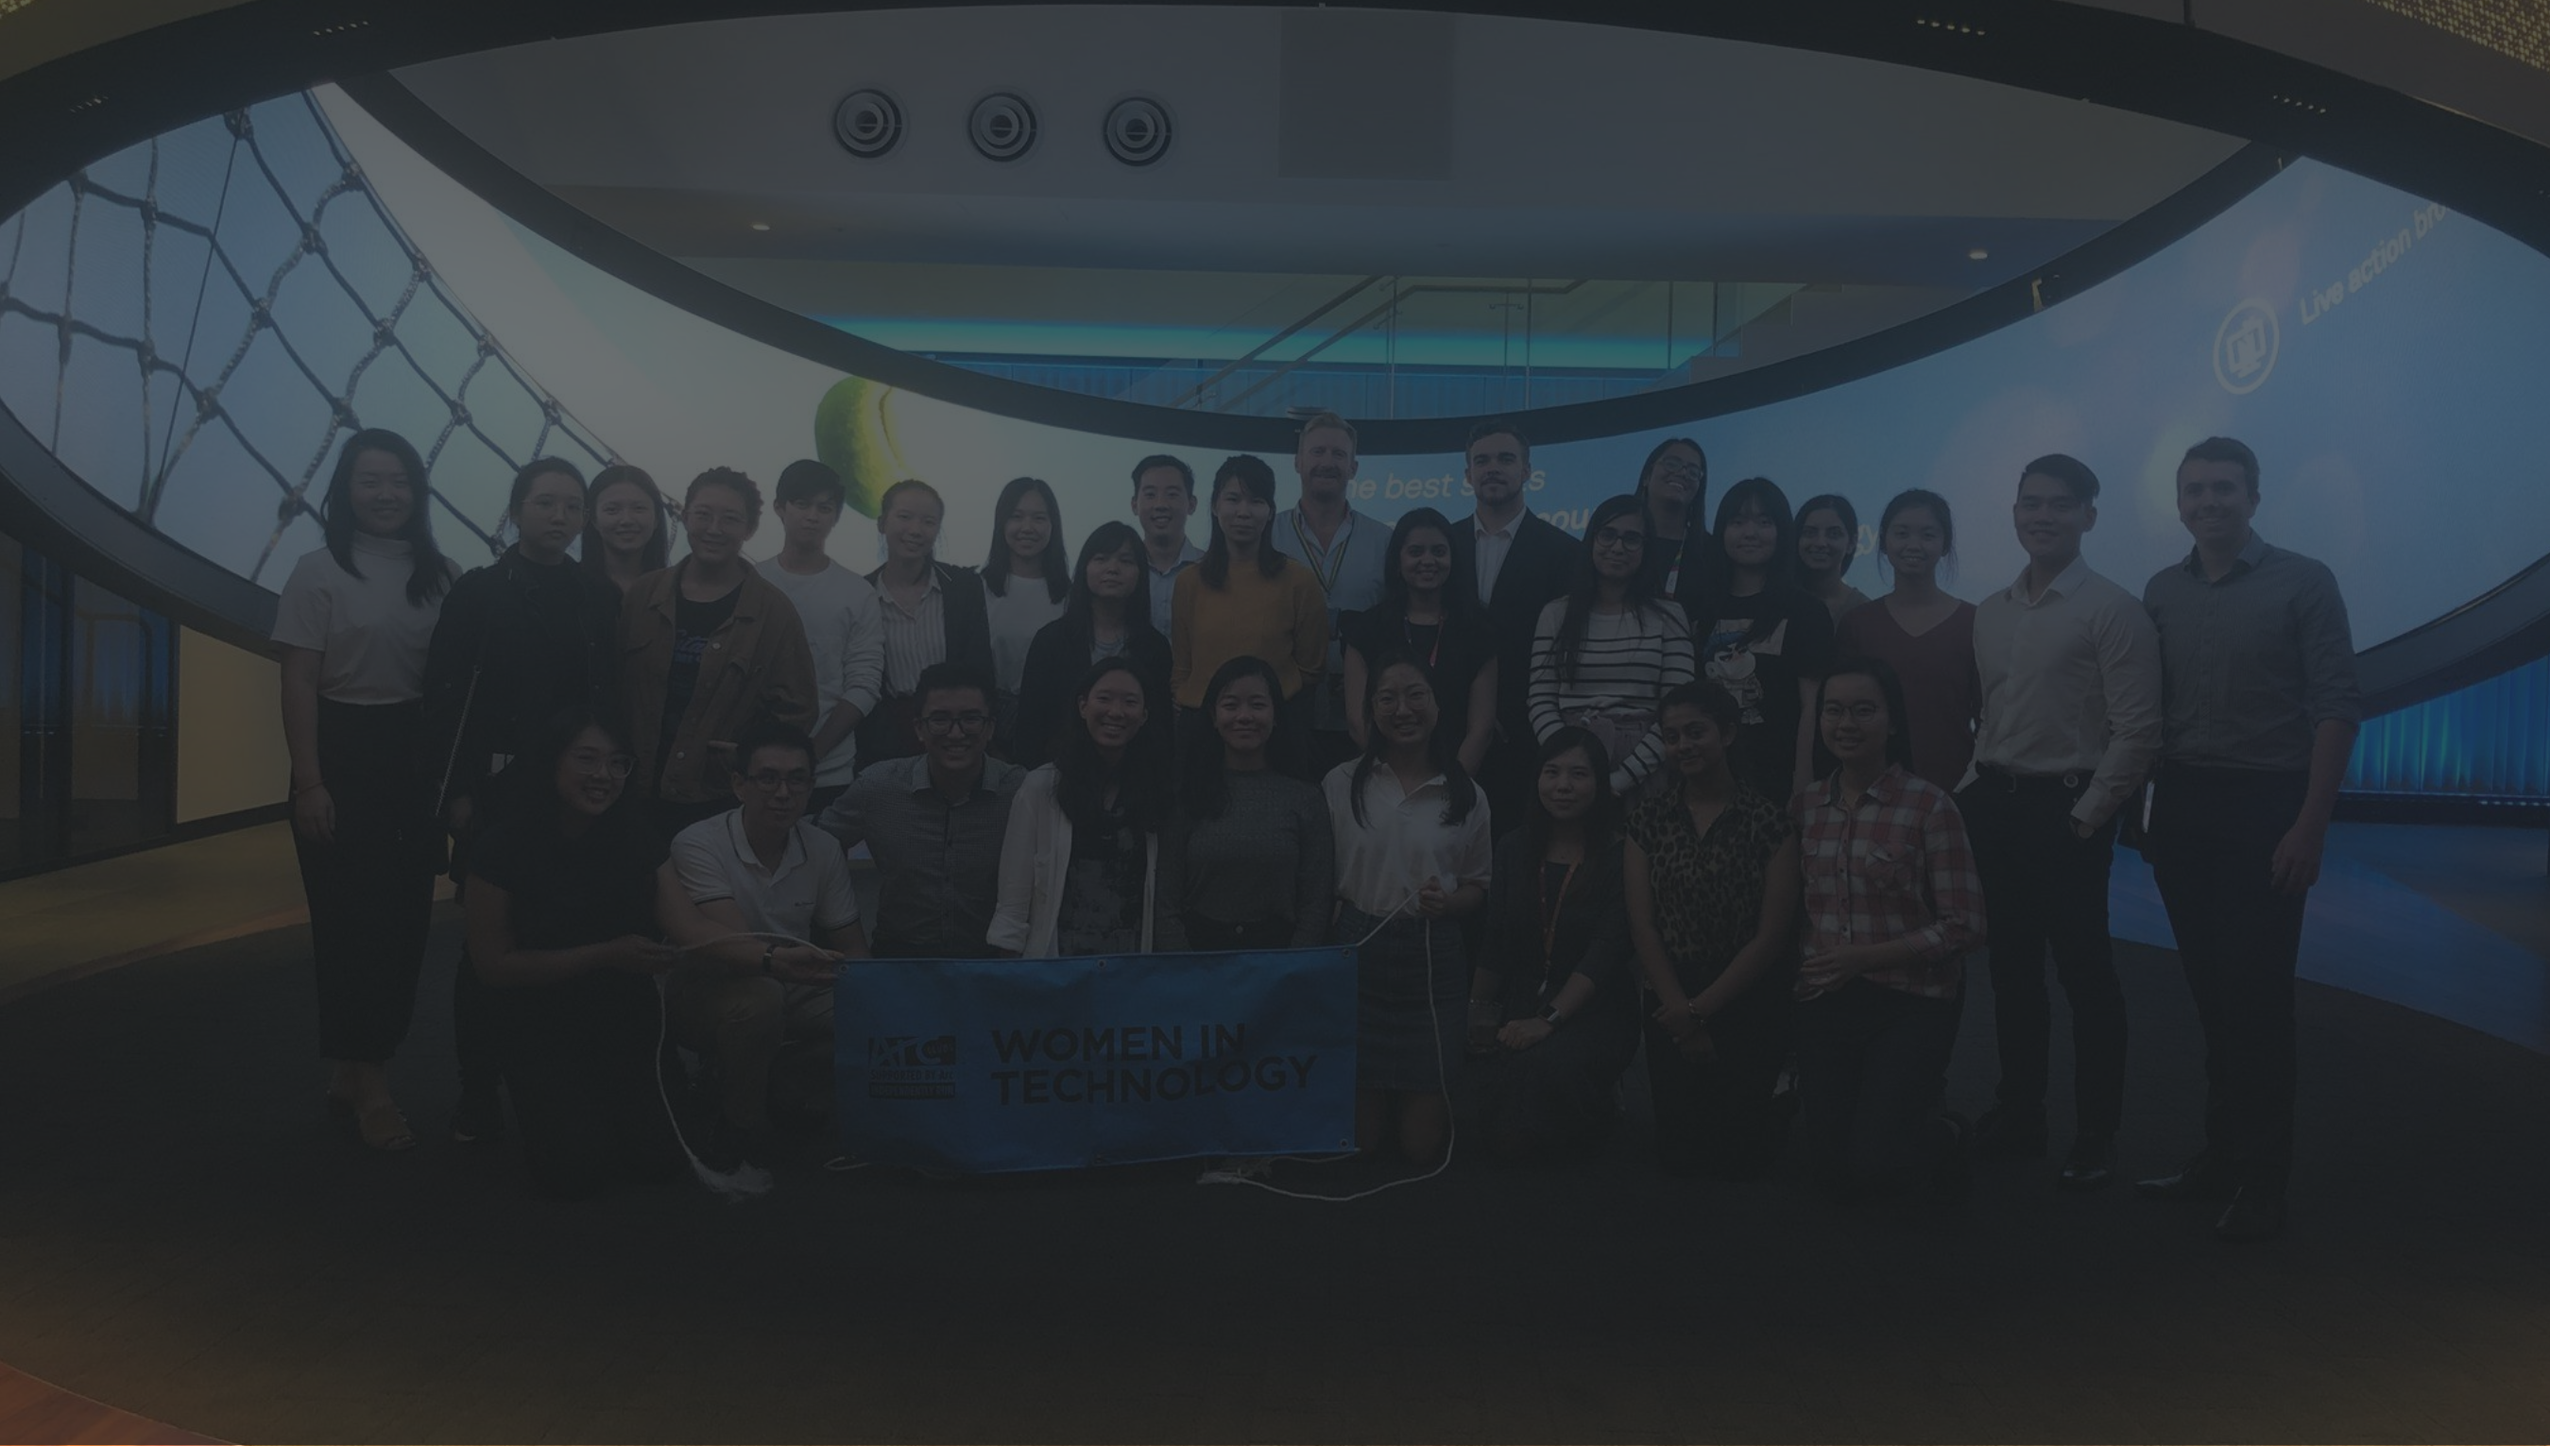
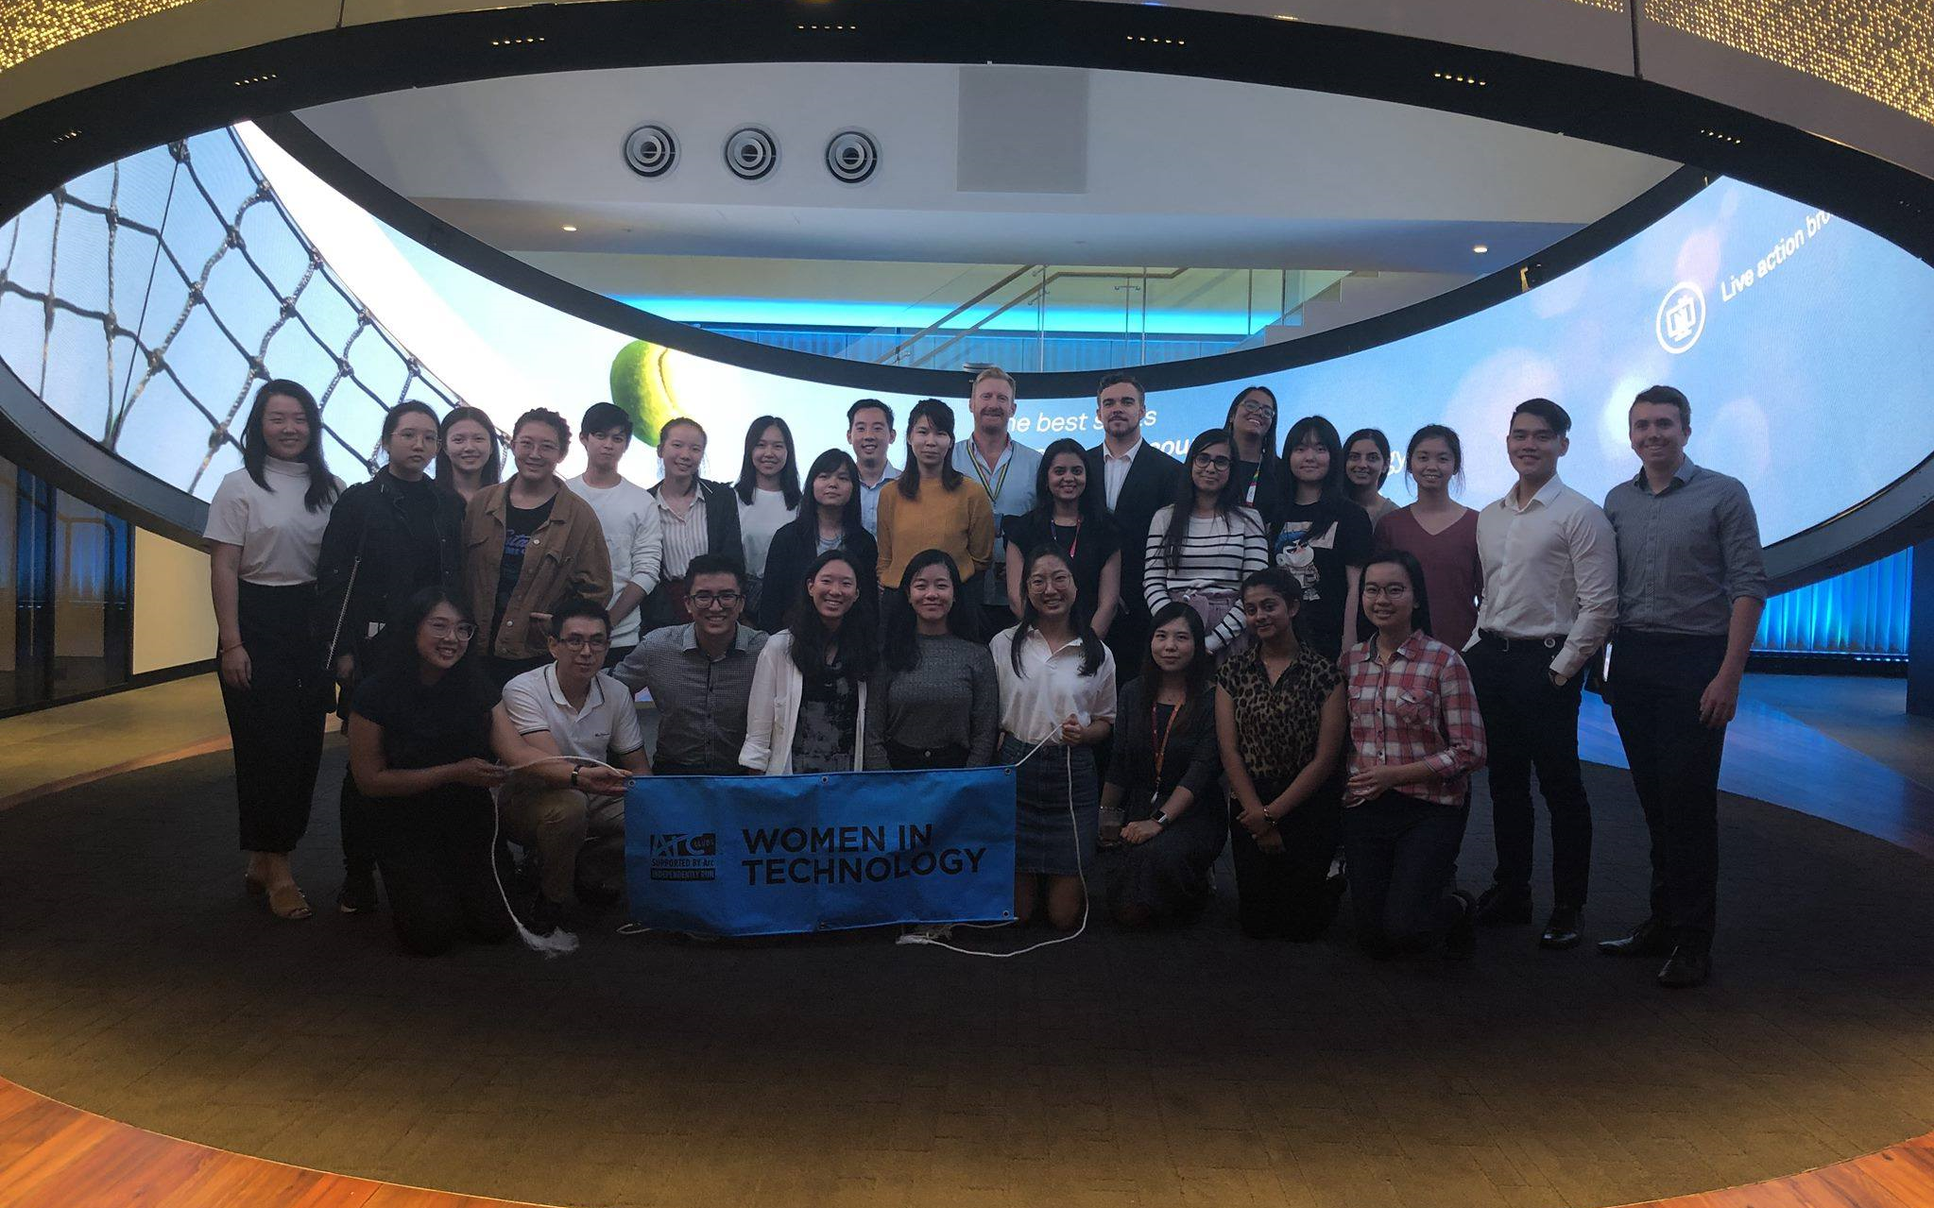
changed resource images for header

diff --git a/src/team/team.js b/src/team/team.js
@@ -13,7 +13,7 @@ class OurTeam extends Component {
 
         {/* Cover Photo */}
         <PageHeader
-          imgUrl="/team-header-1.png"
+          imgUrl="/team-header-1.jpg"
           title="Meet Our Team"
         />
 

diff --git a/src/style.css b/src/style.css
@@ -21,7 +21,7 @@ font-family: 'Montserrat', sans-serif;*/
 .coverPhoto .dark {
   width: 100%;
   background-color: #313638;
-  opacity: 0.5;
+  opacity: 0.6;
   position: absolute;
   top: 0;
   height: 100vh;
